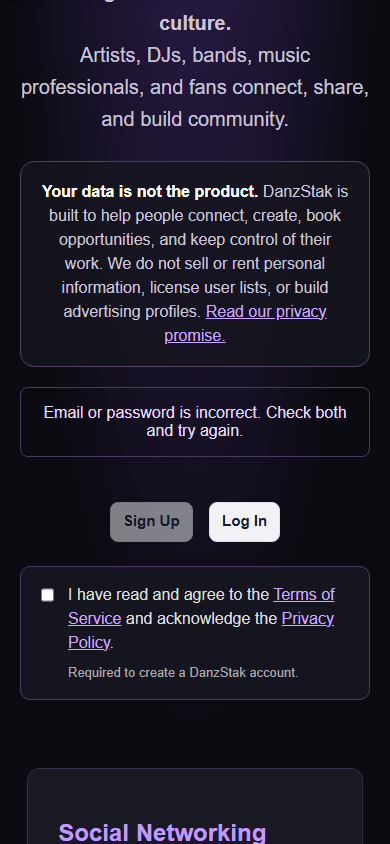
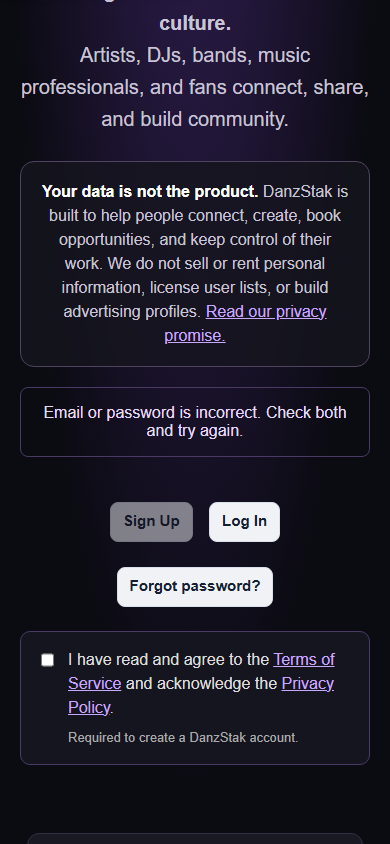
Add password recovery escape from login errors

diff --git a/assets/home.js b/assets/home.js
@@ -3,6 +3,7 @@
 const api = "https://api.danzstak.com";
 const loginBtn = document.getElementById("loginBtn");
 const logoutBtn = document.getElementById("logoutBtn");
+const resetPasswordBtn = document.getElementById("resetPasswordBtn");
 const status = document.getElementById("sessionStatus");
 const signupBtn = document.getElementById("signupBtn");
 const legalConsent = document.getElementById("legalConsent");
@@ -51,6 +52,7 @@ signupBtn.addEventListener("click", async () => {
 function showSession(loggedIn, message) {
   loginBtn.hidden = loggedIn;
   logoutBtn.hidden = !loggedIn;
+  resetPasswordBtn.hidden = loggedIn;
   signupBtn.hidden = loggedIn;
   legalConsent.hidden = loggedIn;
   status.textContent = message;

diff --git a/index.html b/index.html
@@ -101,6 +101,10 @@ data-signup-url="https://api.danzstak.com/auth/signup" disabled>Sign Up</button>
 href="https://api.danzstak.com/auth/login"
 id="loginBtn" hidden>Log In</a>
 
+<a class="button"
+href="https://api.danzstak.com/auth/reset-password"
+id="resetPasswordBtn" hidden>Forgot password?</a>
+
 <button class="button" id="logoutBtn"
 type="button" hidden>Log Out</button>
 

diff --git a/docs/DANZSTAK-DEVELOPMENT-REPORT.md b/docs/DANZSTAK-DEVELOPMENT-REPORT.md
@@ -2167,7 +2167,7 @@ Status as of 2026-11-09: **IMPLEMENTED AND TESTED LOCALLY; REVIEW DEPLOYMENT PEN
 - Dailies now uses the same complete 168px round profile treatment on desktop as on phones. The signed profile image fills the tile, the tile backing stays transparent, the orange inset identity ring remains, and the clapper overlays the lower-left of the image without an outer grey shadow.
 - The Dailies identity browser gate passed at 320, 360, 375, 390, 414, 430, and 1366px. It measures exact image/tile bounds, loaded image state, circular geometry, transparent backing, the contained lower-left clapper, no blocking profile-name prompt, and no horizontal overflow. Builder-inspected captures are in `docs/screenshots/dailies-desktop-sync-footer/`.
 - Embedded mobile SYNC no longer places its action row or site ownership footer behind the fixed mobile navigation. The actions clear the navigation by a measured gap, the ownership footer is hidden in the app screen, and the sidebar reserves enough bottom space for the controls. Browser checks passed at 320 and 390px; inspected captures are in `docs/screenshots/sync-footer-fix/`.
-- Explicit Log In now sends Amazon Cognito `prompt=login`, which requires fresh authentication instead of silently reusing its remembered-account chooser. Callback failures return to the DANZSTAK landing page with a generic inline message instead of exposing a white API response. If DANZSTAK still has a valid remembered session when a sign-in error returns, the page stays put and exposes **Log Out** so the member can switch accounts.
+- Explicit Log In now sends Amazon Cognito `prompt=login`, which requires fresh authentication instead of silently reusing its remembered-account chooser. Callback failures return to the DANZSTAK landing page with a generic inline message instead of exposing a white API response. Signed-out members can open the real Cognito **Forgot password?** code-and-reset flow from that screen. If DANZSTAK still has a valid remembered session when a sign-in error returns, the page stays put and exposes **Log Out** so the member can switch accounts.
 - The misleading **Explore DanzStak** landing controls were removed. Signed-in members continue directly to Mix; signed-out members receive only working Sign Up and Log In paths.
 - The login-failure browser gate passed at 390 and 1366px for both signed-out and remembered-session states. It requires the inline credential message, clean retry controls, remembered-session logout, no Explore control, and no overflow. Inspected captures are in `docs/screenshots/login-failure/`.
 - The complete `test-regressions.ps1` gate passed after the changes, including authentication, account security, SYNC chat and calls, Booking Agent, EPK, Tour Manager, Stripe boundaries and refunds, marketplace/ticketing, media/audio coordination, PWA caching, infrastructure validation, release verification, and all 15 site pages. Focused actual-browser gates for Dailies, SYNC, and login behavior also passed.
